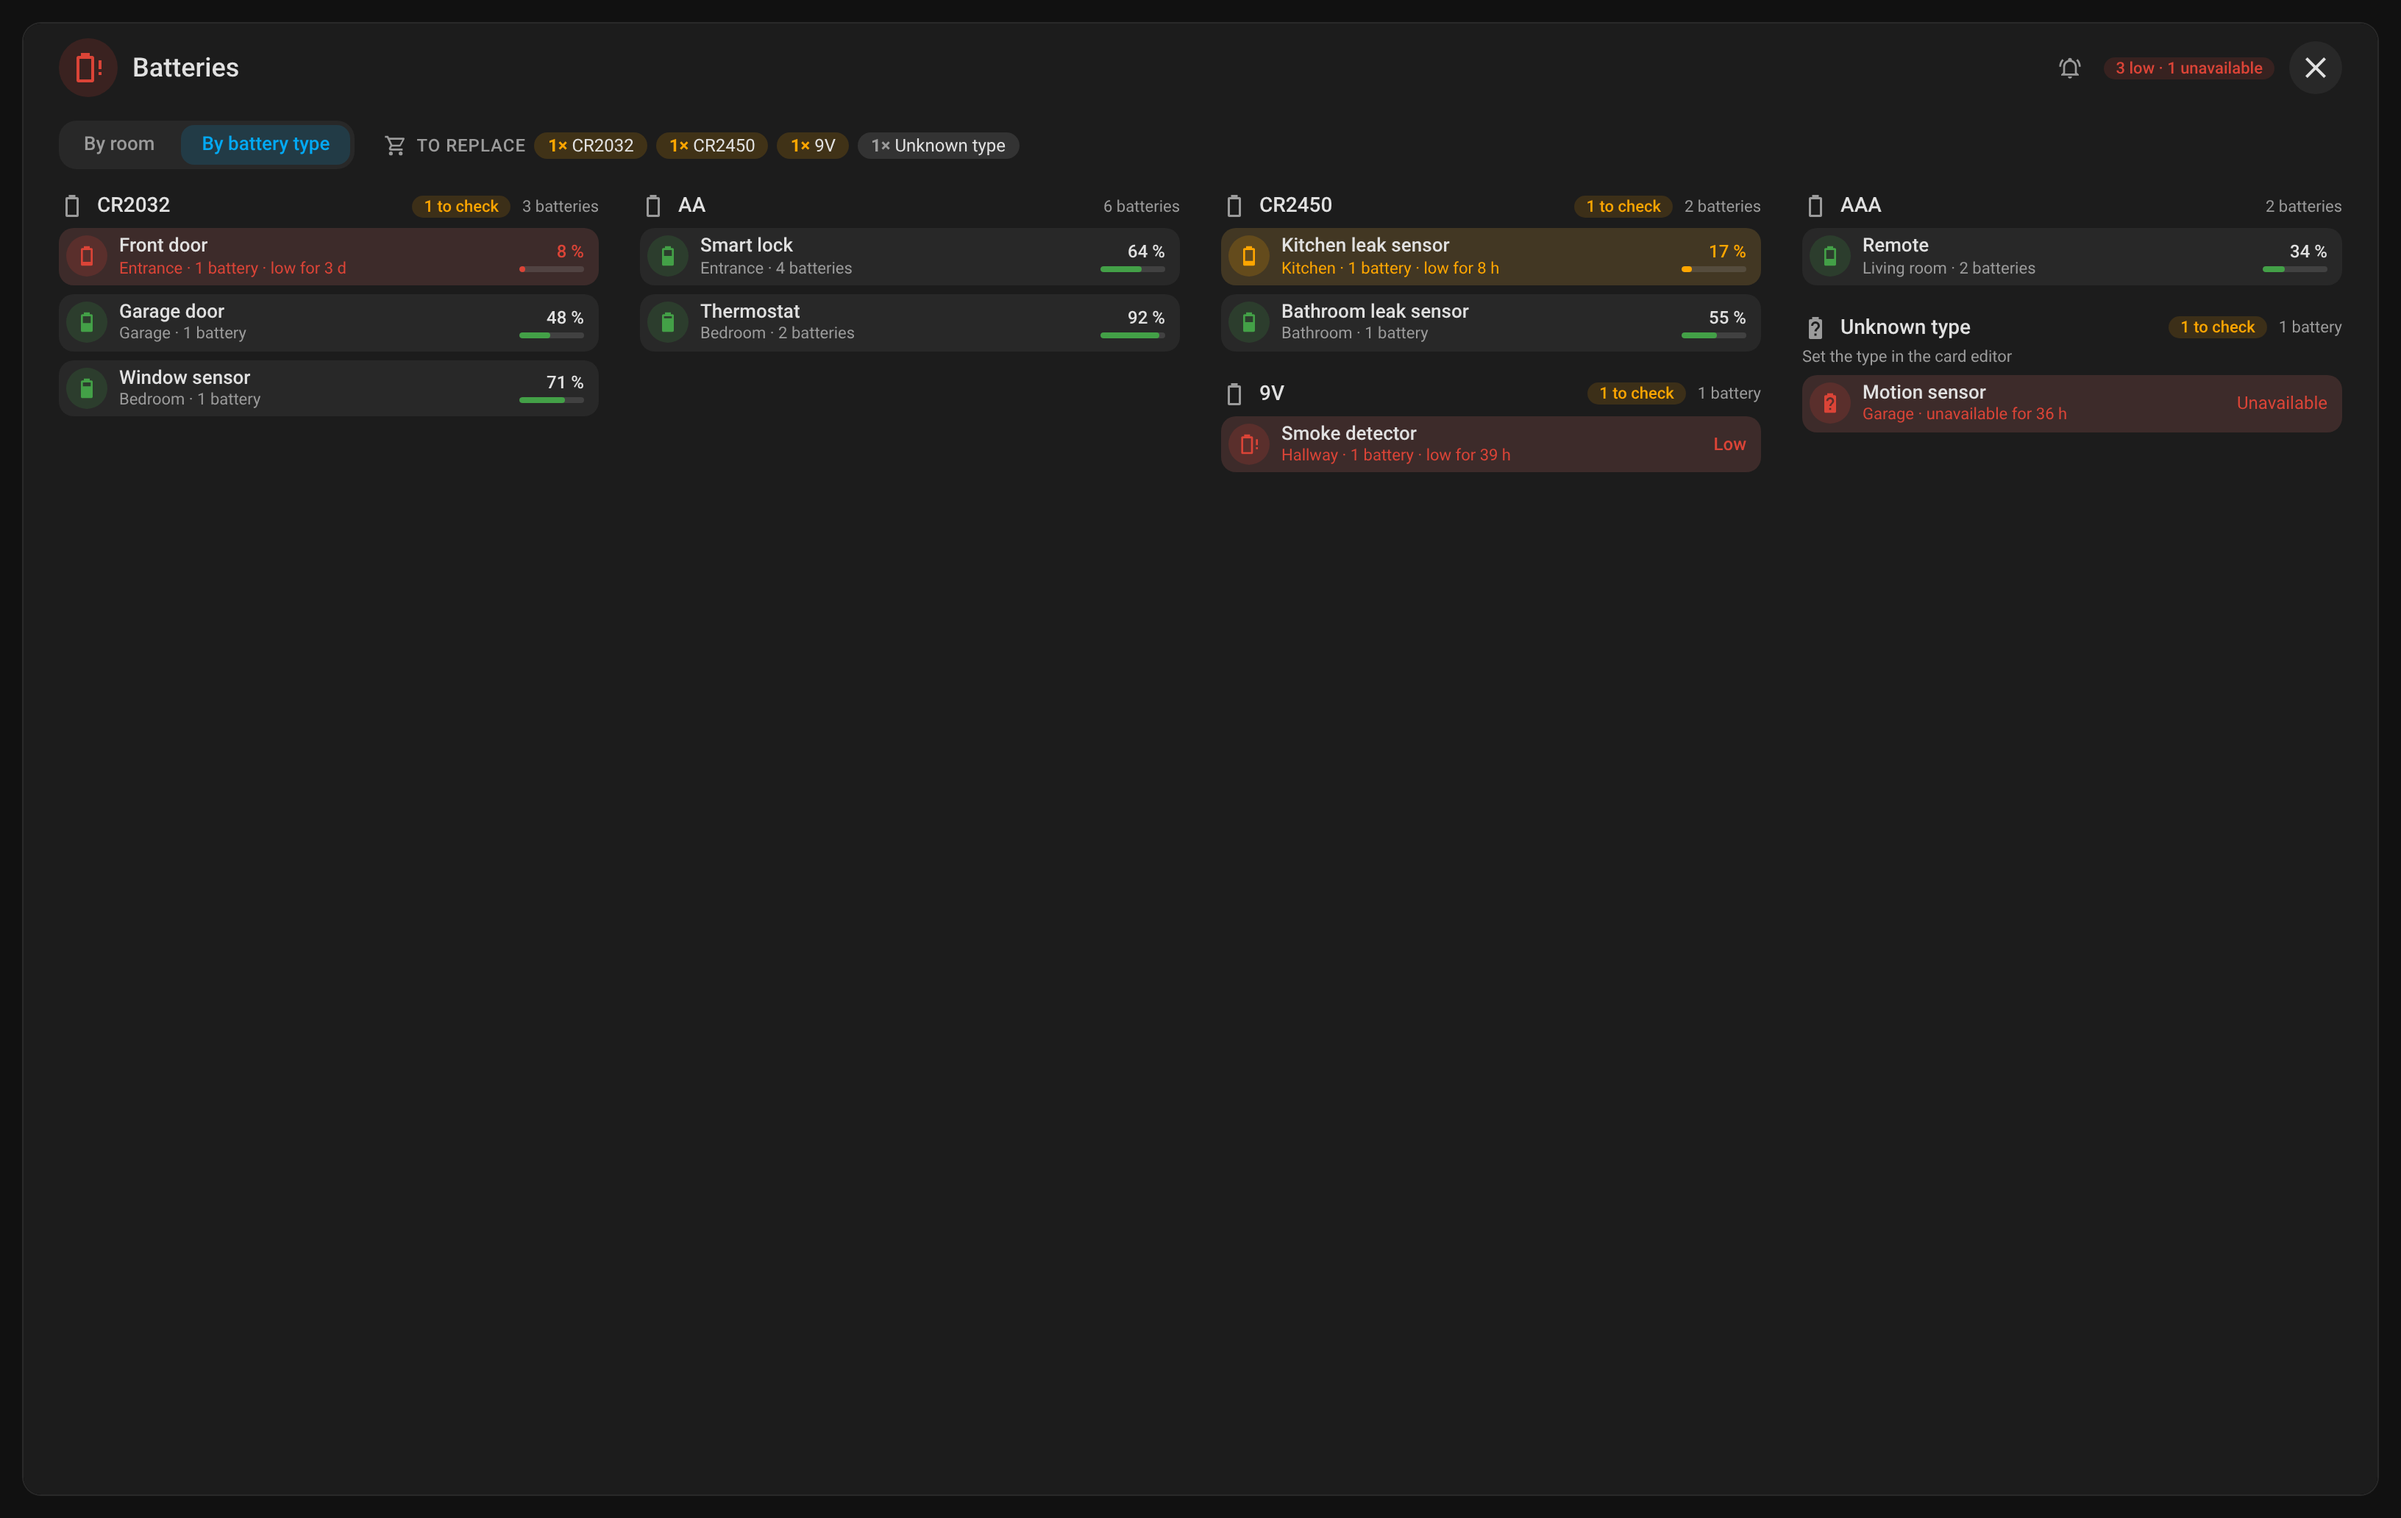
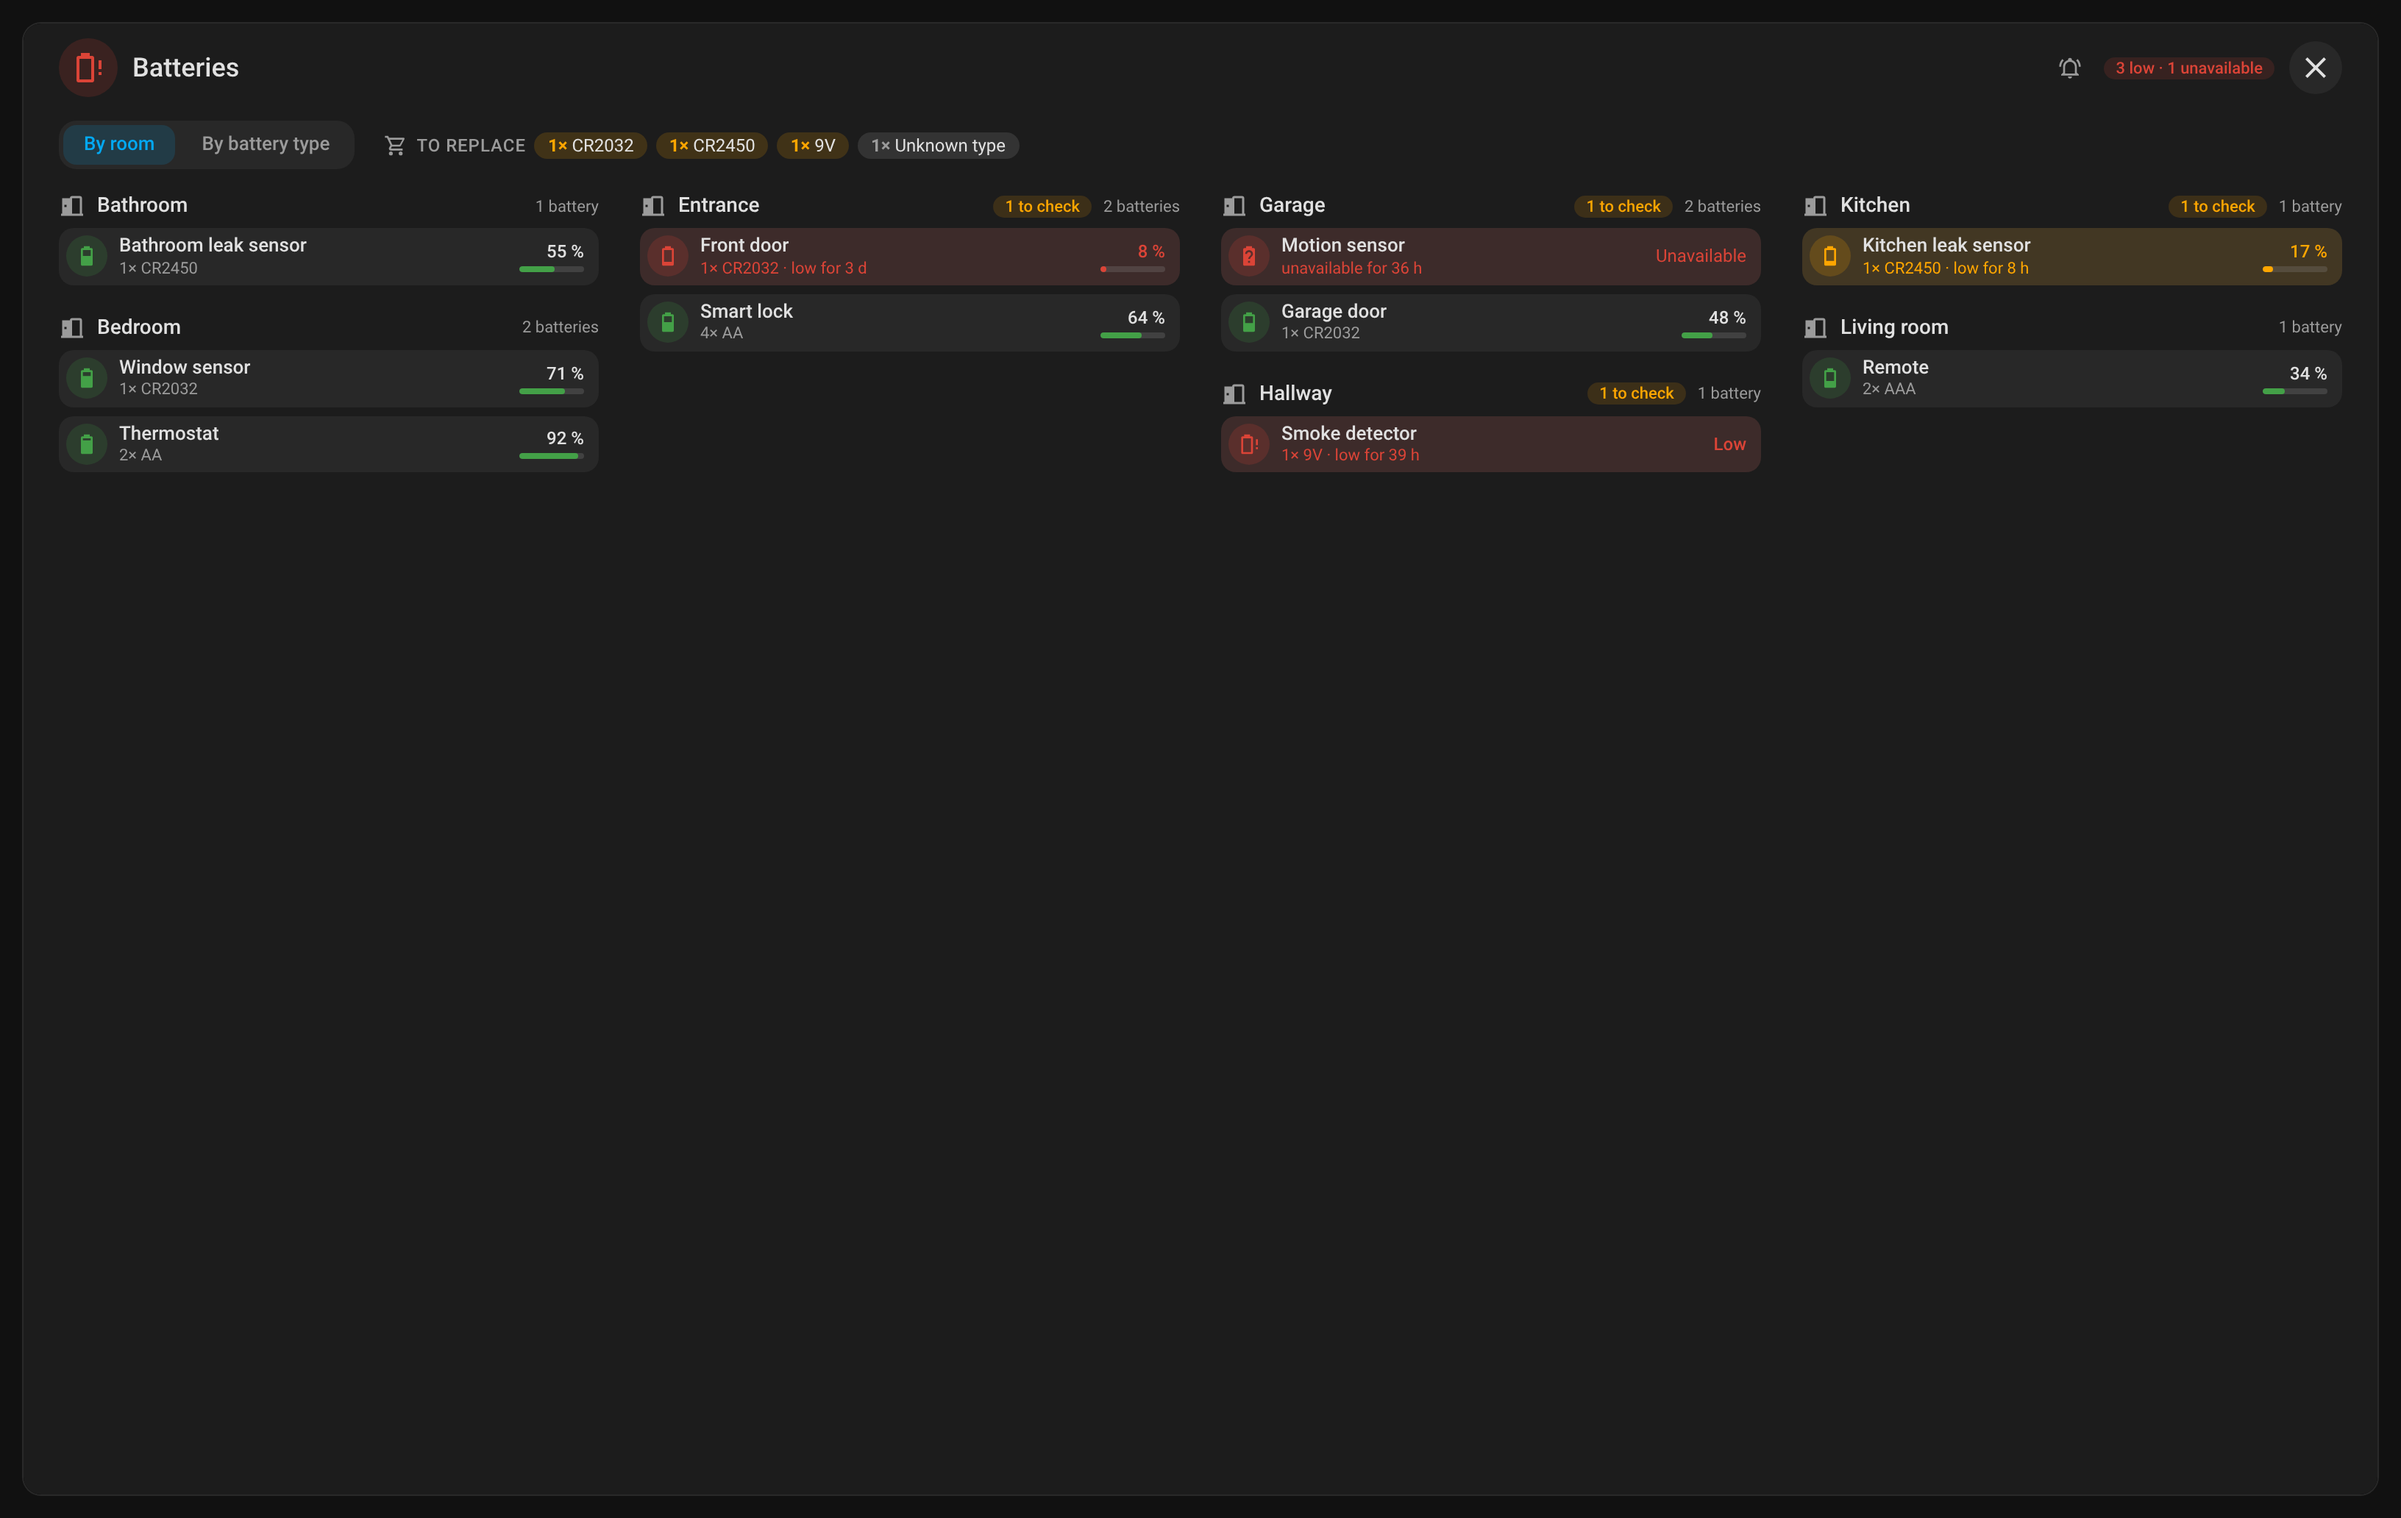
Add light and dark twins for every screenshot (#26)
Adds dark twins for the phone captures of the full screen view
(`popup-phone-dark.png`, `popup-phone-type-dark.png`), rendered by
`scripts/screenshots.py`, and shows them in the README next to their
light captures. CI renders and commits the images.

---
_Generated by [Claude
Code](https://claude.ai/code/session_01F4sAn26rL3YVUHCzvf9YLd)_

---------

diff --git a/scripts/screenshots.py b/scripts/screenshots.py
@@ -184,13 +184,17 @@ SHOTS = [
     {"file": "card-low-dark", "theme": "dark", "config": {"only_low": True}},
 ]
 
-# The full screen view: on a desktop by room and by type, on a phone by room and by type. The viewport is the size of
+# The full screen view: on a desktop by room and by type, on a phone by room and by type (light and dark). The viewport is the size of
 # the view; the page adds the 16 px frame around it.
 POPUP_SHOTS = [
     {"file": "popup", "theme": "light", "view": "room", "viewport": (1600, 1000)},
-    {"file": "popup-dark", "theme": "dark", "view": "type", "viewport": (1600, 1000)},
+    {"file": "popup-dark", "theme": "dark", "view": "room", "viewport": (1600, 1000)},
+    {"file": "popup-type", "theme": "light", "view": "type", "viewport": (1600, 1000)},
+    {"file": "popup-type-dark", "theme": "dark", "view": "type", "viewport": (1600, 1000)},
     {"file": "popup-phone", "theme": "light", "view": "room", "viewport": (390, 844)},
     {"file": "popup-phone-type", "theme": "light", "view": "type", "viewport": (390, 844)},
+    {"file": "popup-phone-dark", "theme": "dark", "view": "room", "viewport": (390, 844)},
+    {"file": "popup-phone-type-dark", "theme": "dark", "view": "type", "viewport": (390, 844)},
 ]
 
 

diff --git a/README.md b/README.md
@@ -159,10 +159,15 @@ When a battery is due for replacement, the card animates: its row icon blinks fo
 | ![card](screenshots/card.png) | ![low](screenshots/card-low.png) |
 | ![card dark](screenshots/card-dark.png) | ![low dark](screenshots/card-low-dark.png) |
 
-| Full screen, by room | Full screen, by battery type (dark) |
+| Full screen, by room | Full screen, by battery type |
 |---|---|
-| ![full screen by room](screenshots/popup.png) | ![full screen by type](screenshots/popup-dark.png) |
+| ![full screen by room](screenshots/popup.png) | ![full screen by type](screenshots/popup-type.png) |
+| ![full screen by room dark](screenshots/popup-dark.png) | ![full screen by type dark](screenshots/popup-type-dark.png) |
+
+| Phone, by room | Phone, by battery type |
+|---|---|
 | ![phone by room](screenshots/popup-phone.png) | ![phone by type](screenshots/popup-phone-type.png) |
+| ![phone by room dark](screenshots/popup-phone-dark.png) | ![phone by type dark](screenshots/popup-phone-type-dark.png) |
 
 ## How it works
 
